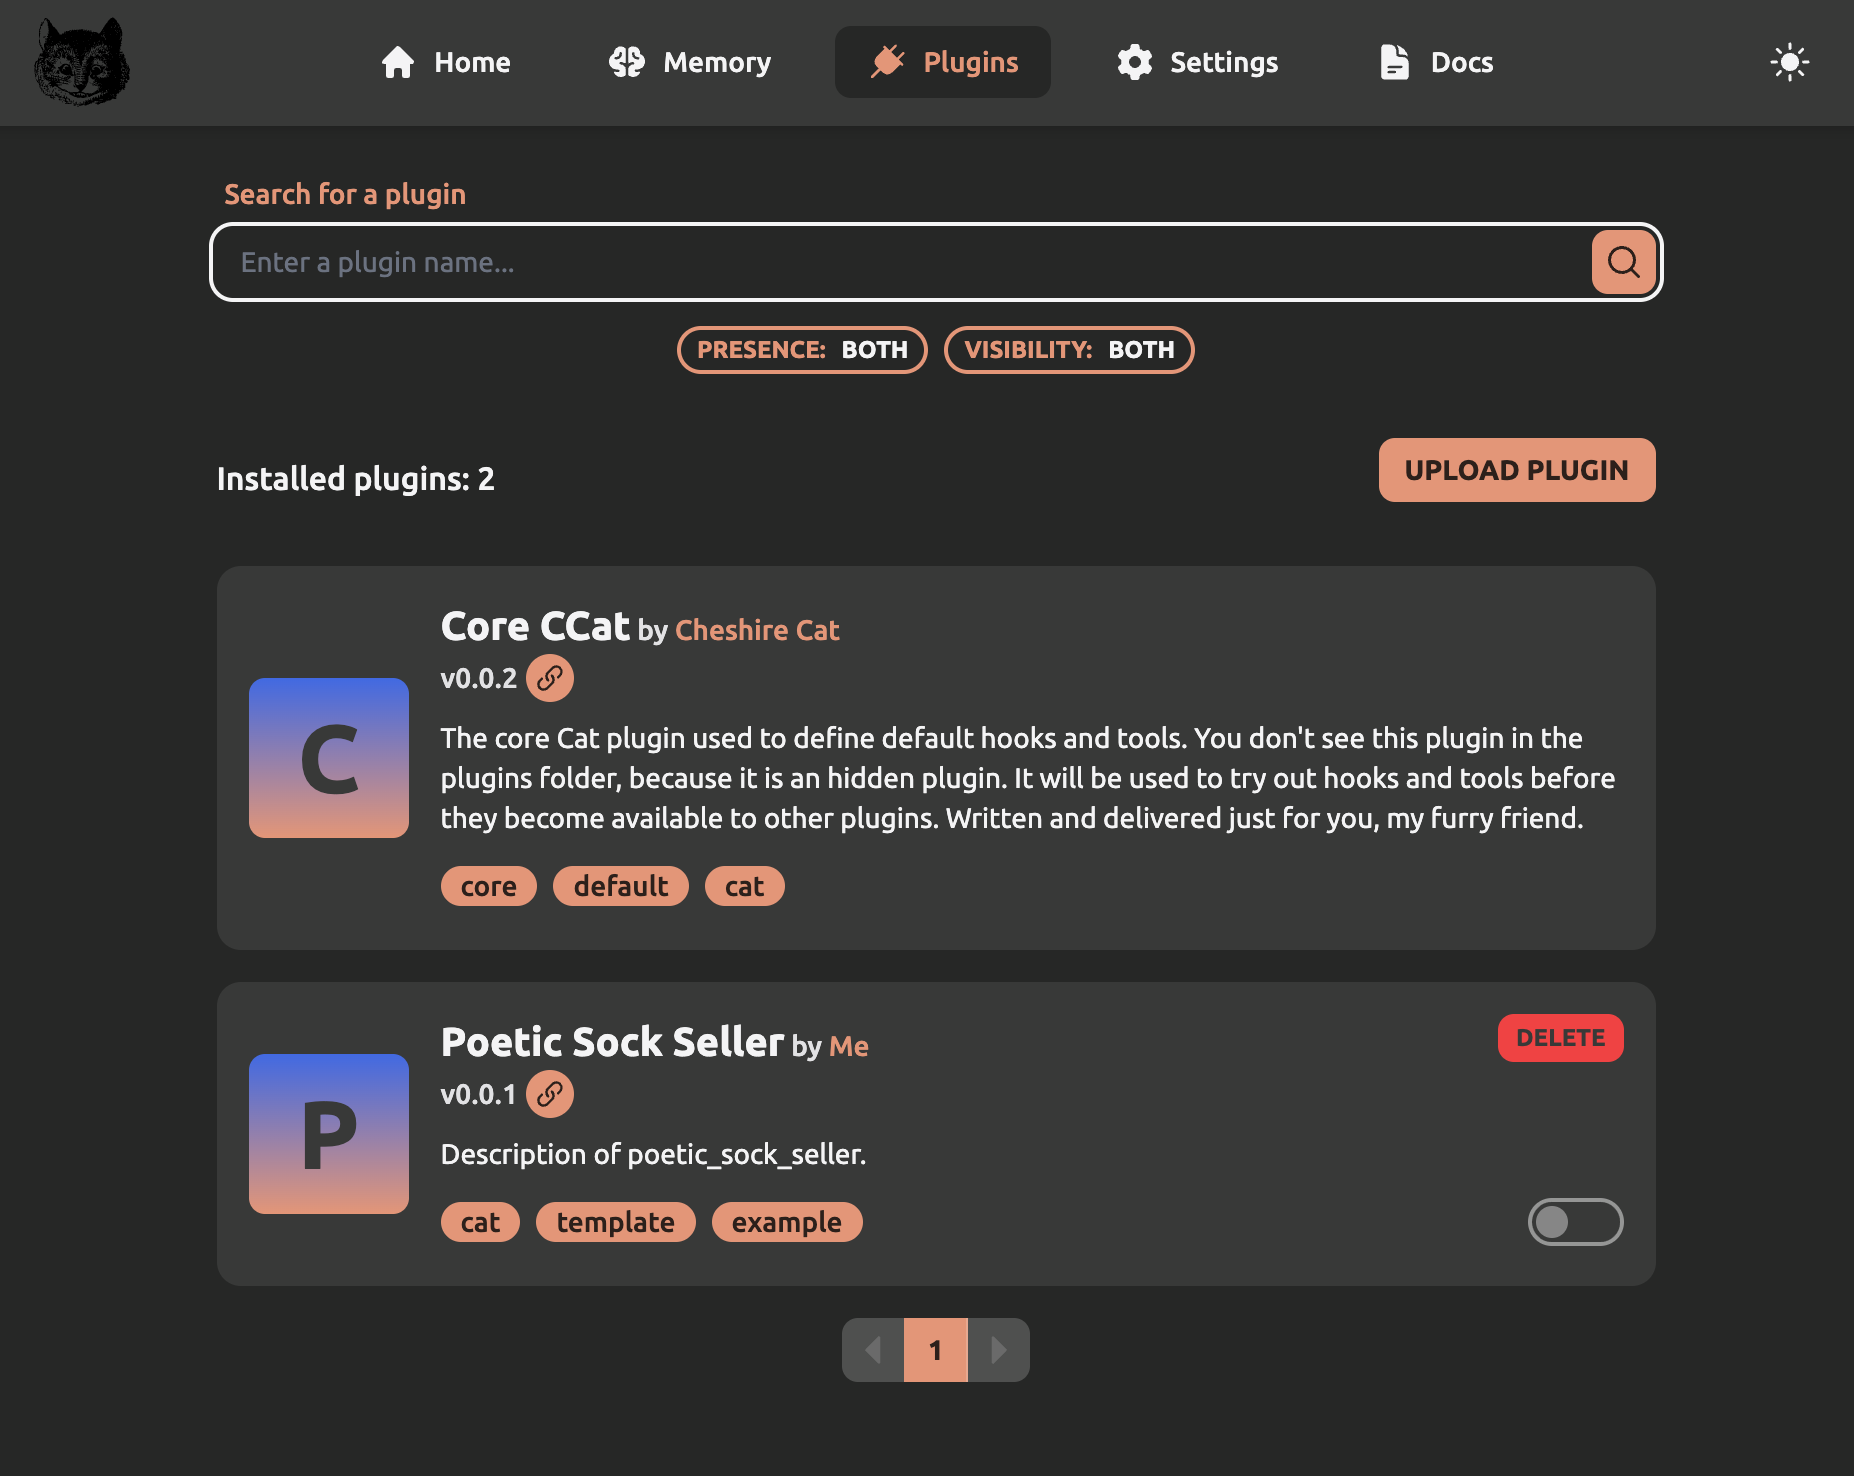
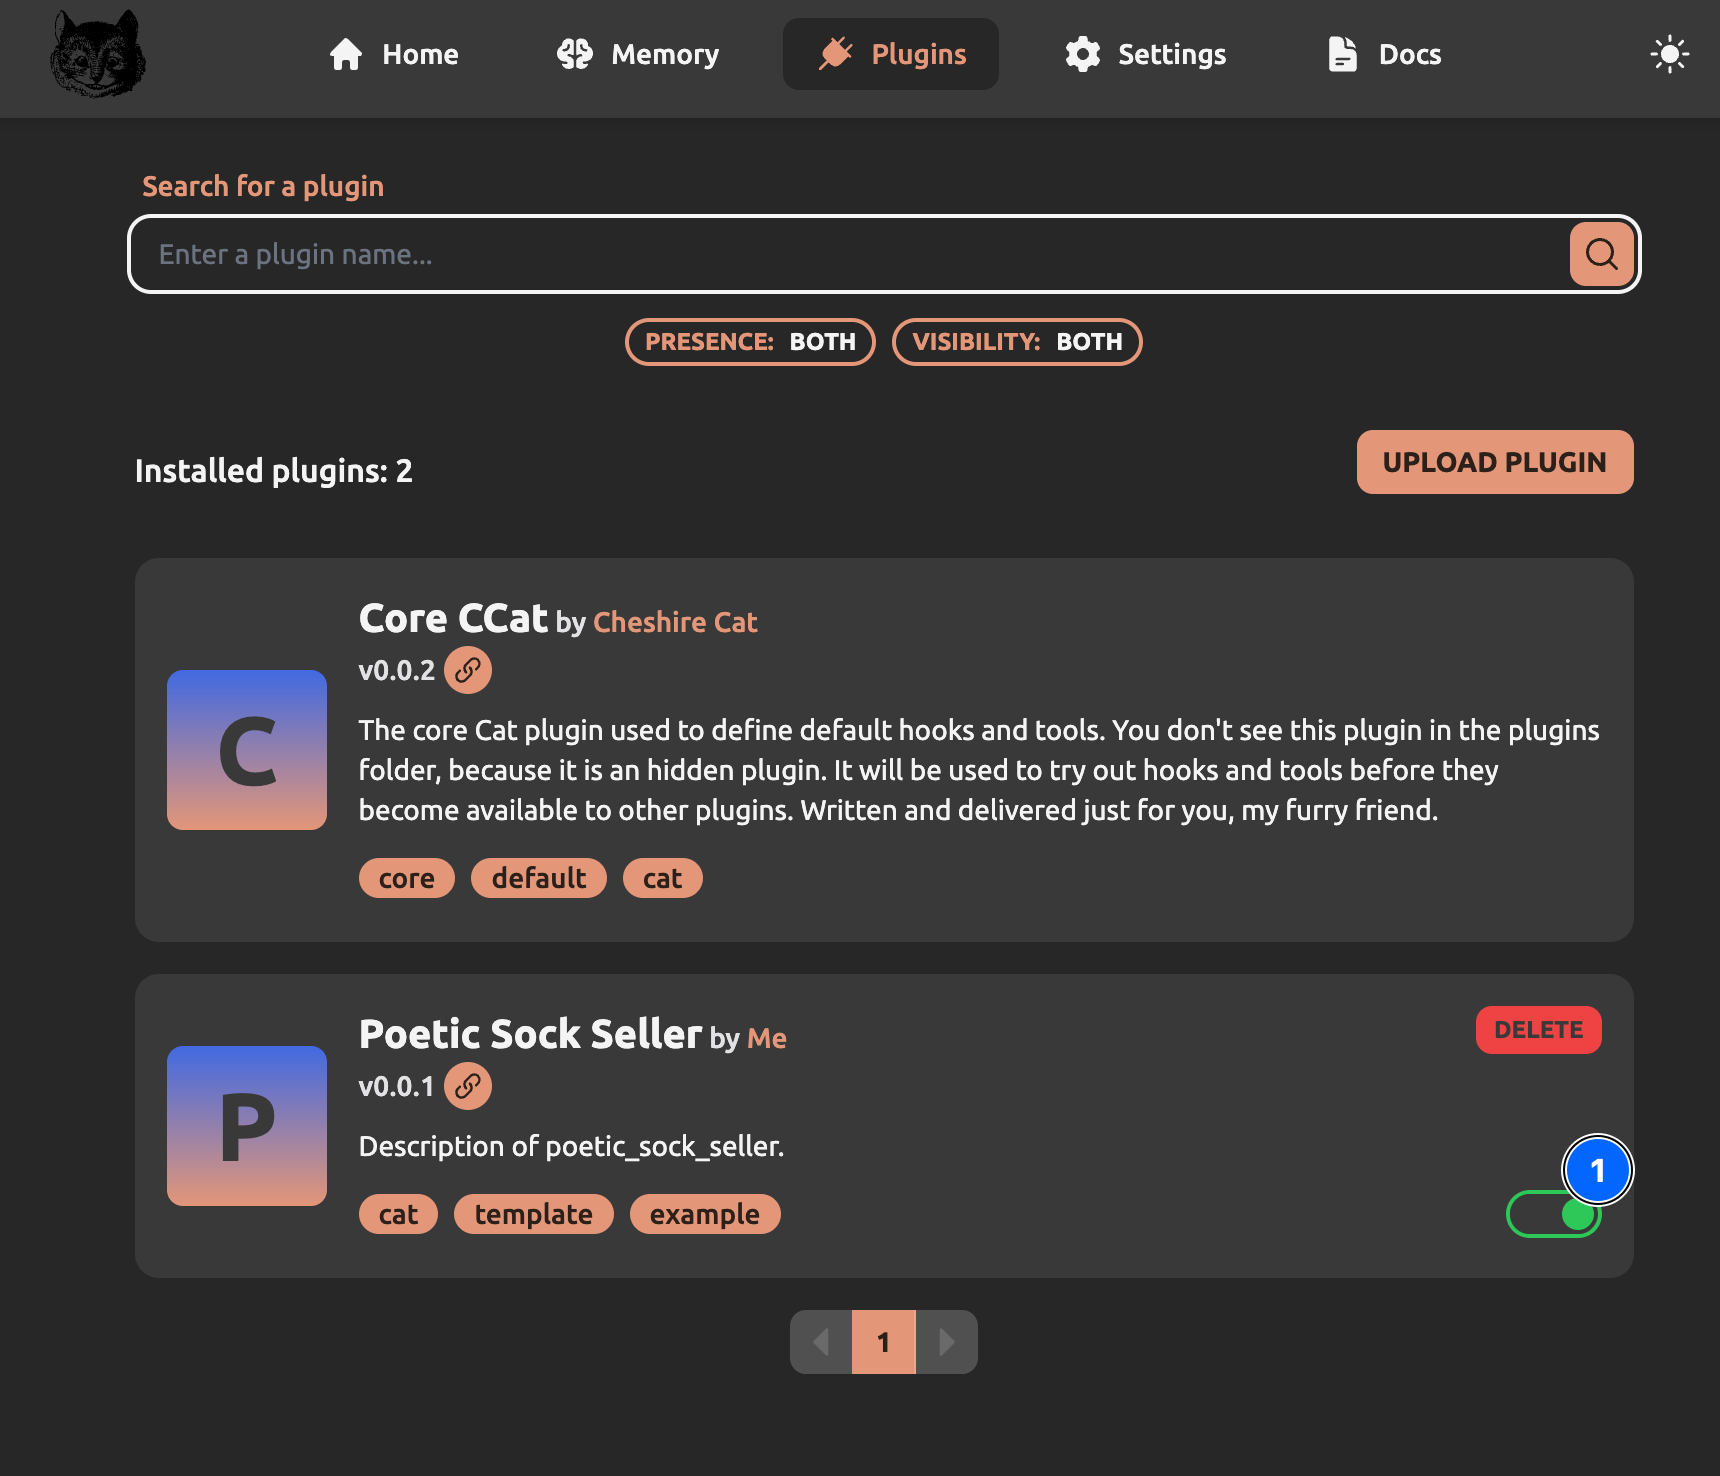
Review

diff --git a/mkdocs/quickstart/interact-using-api.md b/mkdocs/quickstart/interact-using-api.md
@@ -2,37 +2,52 @@
 
 The Cat is an API-first framework, you can chat with it using the WebSocket protocol.
 
-
-Here is an example of how to use it, run it and ask "what do you know about socks?" again:
+## Example of code
+Here is an example of how to use it:
 
 ```python
 import asyncio
 import websockets
 import json
 
+
 async def cat_chat():
-
     # Creating a websocket connection
-    async with websockets.connect('ws://localhost:1865/ws') as websocket:
+    async with websockets.connect("ws://localhost:1865/ws") as websocket:
+        # Taking user input and sending it through the websocket
+        user_input = input("Human: ")
+        await websocket.send(json.dumps({"text": user_input}))
 
-        # Running a continuous loop until broken
-        while True:
+        # Receiving and printing the cat's response
+        cat_response = json.loads(await websocket.recv())
 
-            # Taking user input and sending it through the websocket
-            user_input = input("Human: ")
-            await websocket.send(json.dumps({"text": user_input}))
+        print("Cheshire Cat:", json.dumps(cat_response, indent=4))
 
-            # Receiving and printing the cat's response
-            cat_response = await websocket.recv()
-            print("Cheshire Cat:", cat_response)
 
 # Running the function until completion
 asyncio.get_event_loop().run_until_complete(cat_chat())
 ```
 
-The output in the terminal should looks like:
+## Chatting with the Cat in the console
+Run it and ask "what do you know about socks?" again, the output in the terminal should looks like:
 
-![Alt text](../assets/img/quickstart/interact-using-api/shell-output.png)
-
+```bash
+❯ python3 test.py
+Human: what do you know about socks?
+Cheshire Cat: {
+    "error": false,
+    "type": "chat",
+    "content": "Ah, socks! They're quite fascinating little things, aren't they? Well, let me tell you what I know about socks. They come in all shapes, sizes, and colors, and they're usually worn on the feet to keep them warm and cozy. Some people like their socks plain and simple, while others prefer them with funky patterns or cute designs. Socks can be made from different materials like cotton, wool, or even synthetic fibers. They can also have different lengths, from ankle socks to knee-highs. And let's not forget about those toe socks that give each little piggy its own little cozy home! So, there you have it, a little glimpse into the world of socks. Is there anything specific you'd like to know about them?",
+    "why": {
+        "input": "what do you know about socks?",
+        "intermediate_steps": null,
+        "memory": {
+            "episodic": [],
+            "declarative": [],
+            "procedural": []
+        }
+    }
+}
+```
 ## Next Step
 In the next step you will learn how load a text document in the documents memory.

diff --git a/mkdocs/quickstart/prepare-plugin.md b/mkdocs/quickstart/prepare-plugin.md
@@ -2,6 +2,7 @@
 
 Plugins are packages of `Tools` and `Hooks`, you don't distribute a `Tool` or a `Hook` directly, you will distribute a Plugin containing them.
 
+## Creating the new plugin
 In this step we will use a GitHub template to prepare an empty Plugin and in the next steps we will insert a `Tool` and a `Hook` inside.
 
 Navigate to the [plugin-template](https://github.com/cheshire-cat-ai/plugin-template){:target="_blank"} GitHub repository, click on `Use this template` and then `Create a new repository`:
@@ -12,6 +13,7 @@ Choose `poetic_sock_seller` as repository name and then click on `Create reposit
 
 ![Alt text](../assets/img/quickstart/prepare-plugin/repo-name.png)
 
+## Cloning the Plugin
 Now that you set up the remote repository on GitHub, you need to set up the code locally. Hence, clone the repository directly in the Cat’s plugins folder on your machine:
 
 ``` shell
@@ -30,7 +32,8 @@ The script will prompt you to write the name of your plugin, `Poetic Sock Seller
 
 The template contains a source code example that we don't need, remove all the code inside the the file `poetic_sock_seller.py`
 
-Now got to the `Plugin` tab of the Admin Portal, your empty plugin will be there:
+## Activating the Plugin
+Now got to the `Plugin` tab of the Admin Portal, your empty plugin will be there, activate it:
 
 ![Alt text](../assets/img/quickstart/prepare-plugin/plugins-tab.png)
 

diff --git a/mkdocs/quickstart/upload-document.md b/mkdocs/quickstart/upload-document.md
@@ -3,15 +3,26 @@
 Documents can be uploaded via the Admin Portal (and it's also possible through APIs). Uploaded documents will be considered by the Cat to prepare the answer to your question.
 These documents are saved in a local database called `declarative memory`.
 
+## Improve the Cat knowledge
 The Cat's knowledge about socks is quite basic; we will upload more specific knowledge.
 
 Go to the Admin Portal at `localhost:1865/admin` on the `Home` tab, click on `Upload url` and use this url `https://en.wikipedia.org/wiki/N%C3%A5lebinding`:
 
 ![Alt text](../assets/img/quickstart/upload-document/upload-url.png)
 
-After you receive notification of the finished read, the Cat can answer with more detailed answers:
+You receive notification of the finished read:
+
+![Alt text](../assets/img/quickstart/upload-document/finish-notification.png)
+
+## Trying the new knowledge
+The Cat can answer with more detailed answers:
 
 ![Alt text](../assets/img/quickstart/upload-document/cat-answers.png)
+
+## Why the response?
+By clicking on the question mark next to the answer, you can understand what prompted the Cat to provide the response; in this case, you can see that knowledge from the documents knowledge (`declarative memory`) was used:
+
+![Alt text](../assets/img/quickstart/upload-document/why-response.png)
 
 ## Next Step
 In the next step you will learn how to prepare an empty Plugin

diff --git a/mkdocs/quickstart/writing-tool.md b/mkdocs/quickstart/writing-tool.md
@@ -2,6 +2,7 @@
 
 Tools are Python functions called by the LLM to execute actions. They are composed of two parts: the first part contains instructions to the LLM that explain when and how to call them, while the second part contains the actual code to execute.
 
+## Creating the Tool
 Now let’s get down to business. A real socks salesman offers a quantity of socks, with many colors and corresponding price. Let’s say a customer wants to know the price for socks of a specific color. We could write a tool to answer the question, copy and past this source code inside the file `poetic_sock_seller.py`:
 
 ```python
@@ -21,6 +22,7 @@ def socks_prices(color, cat):
         return f"{prices[color]} €" 
 ```
 
+## Testing the Tool
 Now let’s ask for our favorite socks color:
 
 ![Alt text](../assets/img/quickstart/write-tool/ask-price-socks.png)
@@ -29,7 +31,7 @@ Now let’s ask for our favorite socks color:
 By clicking on the question mark next to the answer, you can understand what prompted the Cat to provide the response; in this case, you can see that our tool "socks_prices" was used:
 
 ![Alt text](../assets/img/quickstart/write-tool/why-the-response.png)
-![Alt text](image.png)
+
 ## Explaining the code step by step
 ```python
 from cat.mad_hatter.decorators import tool
